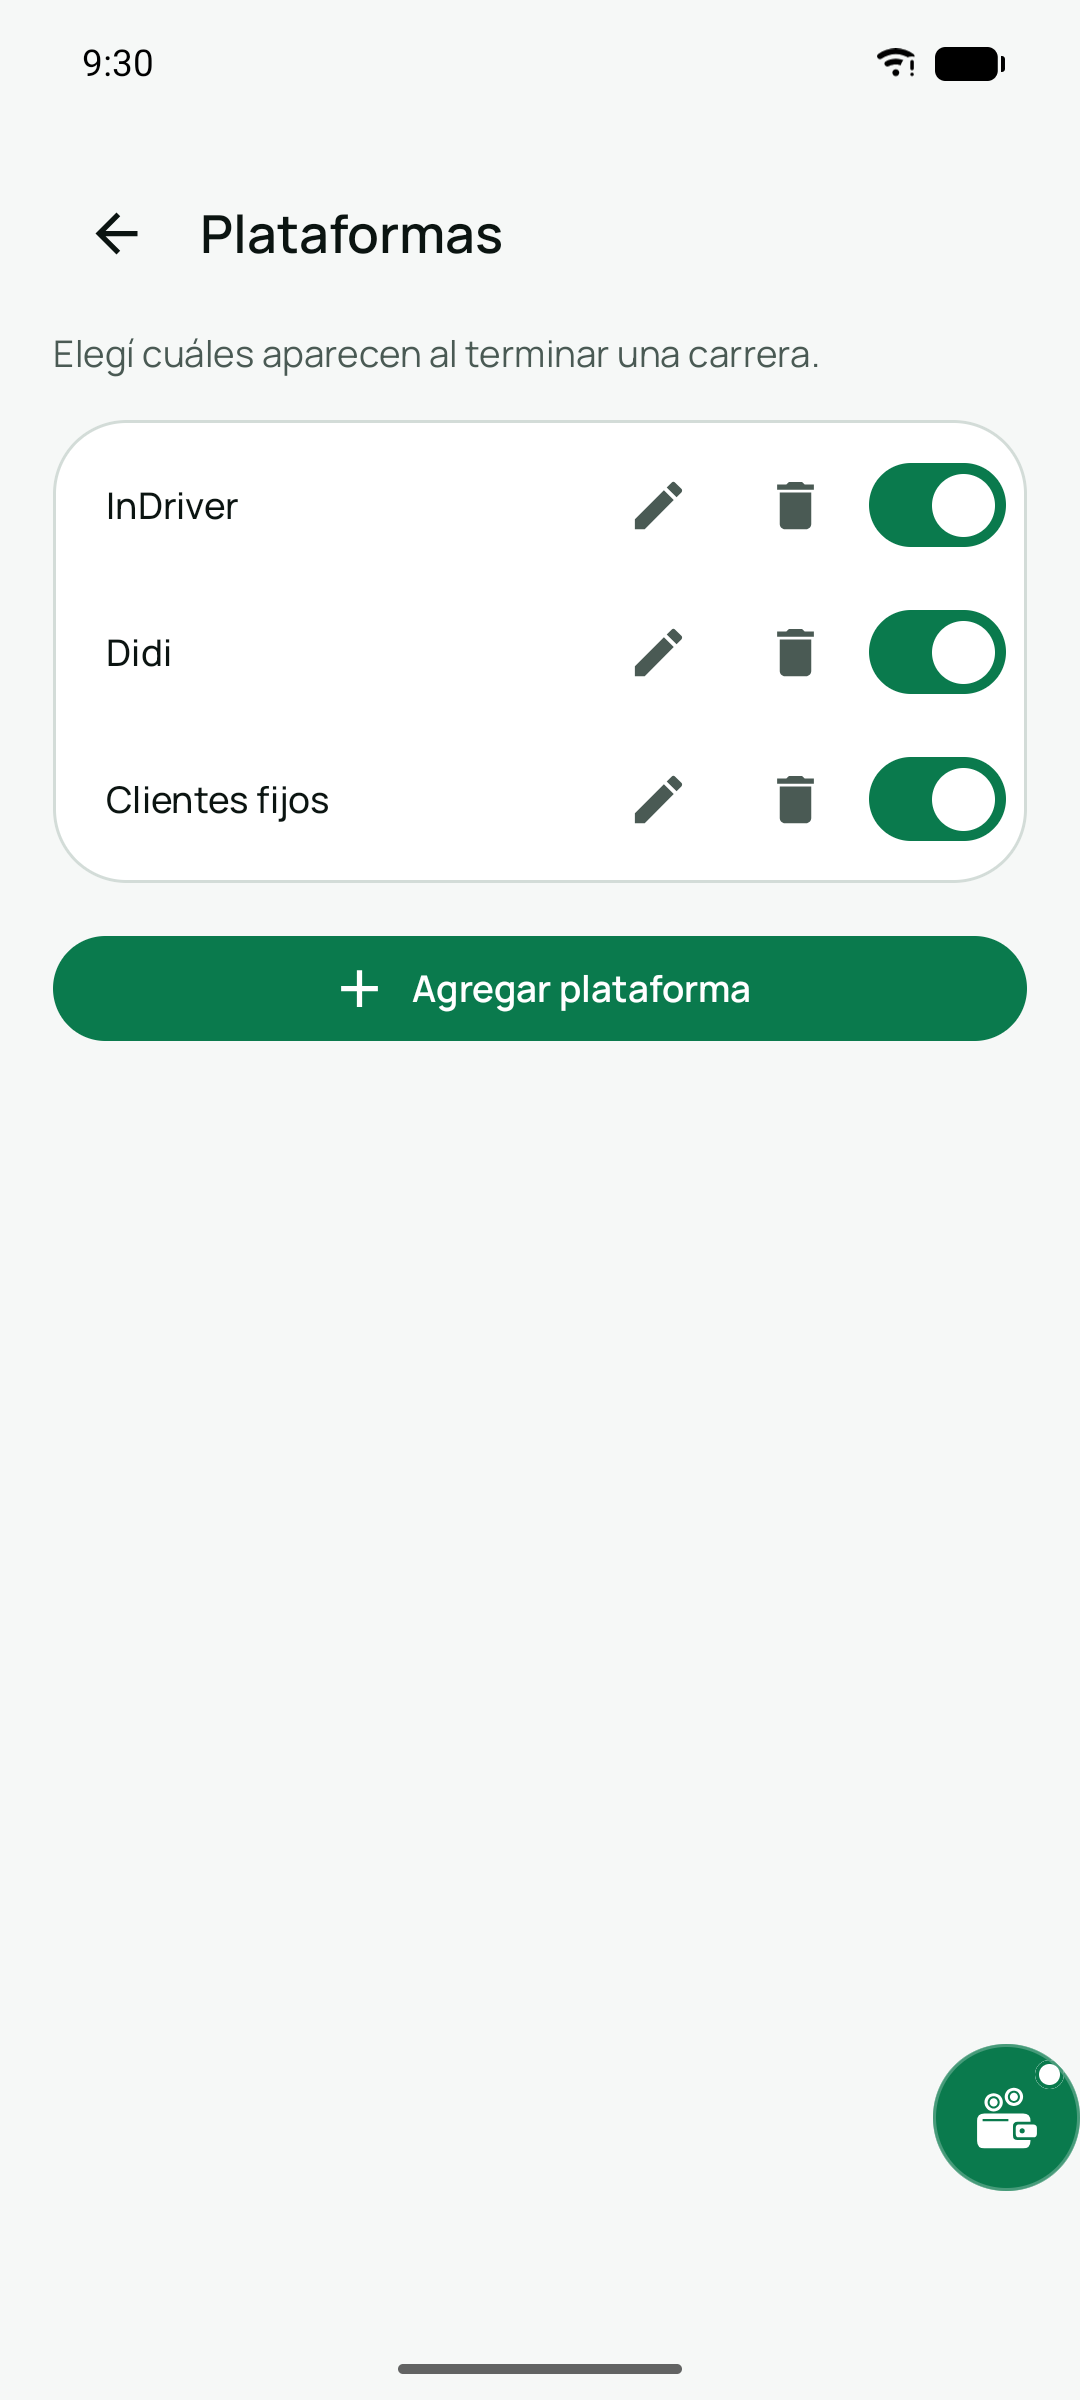
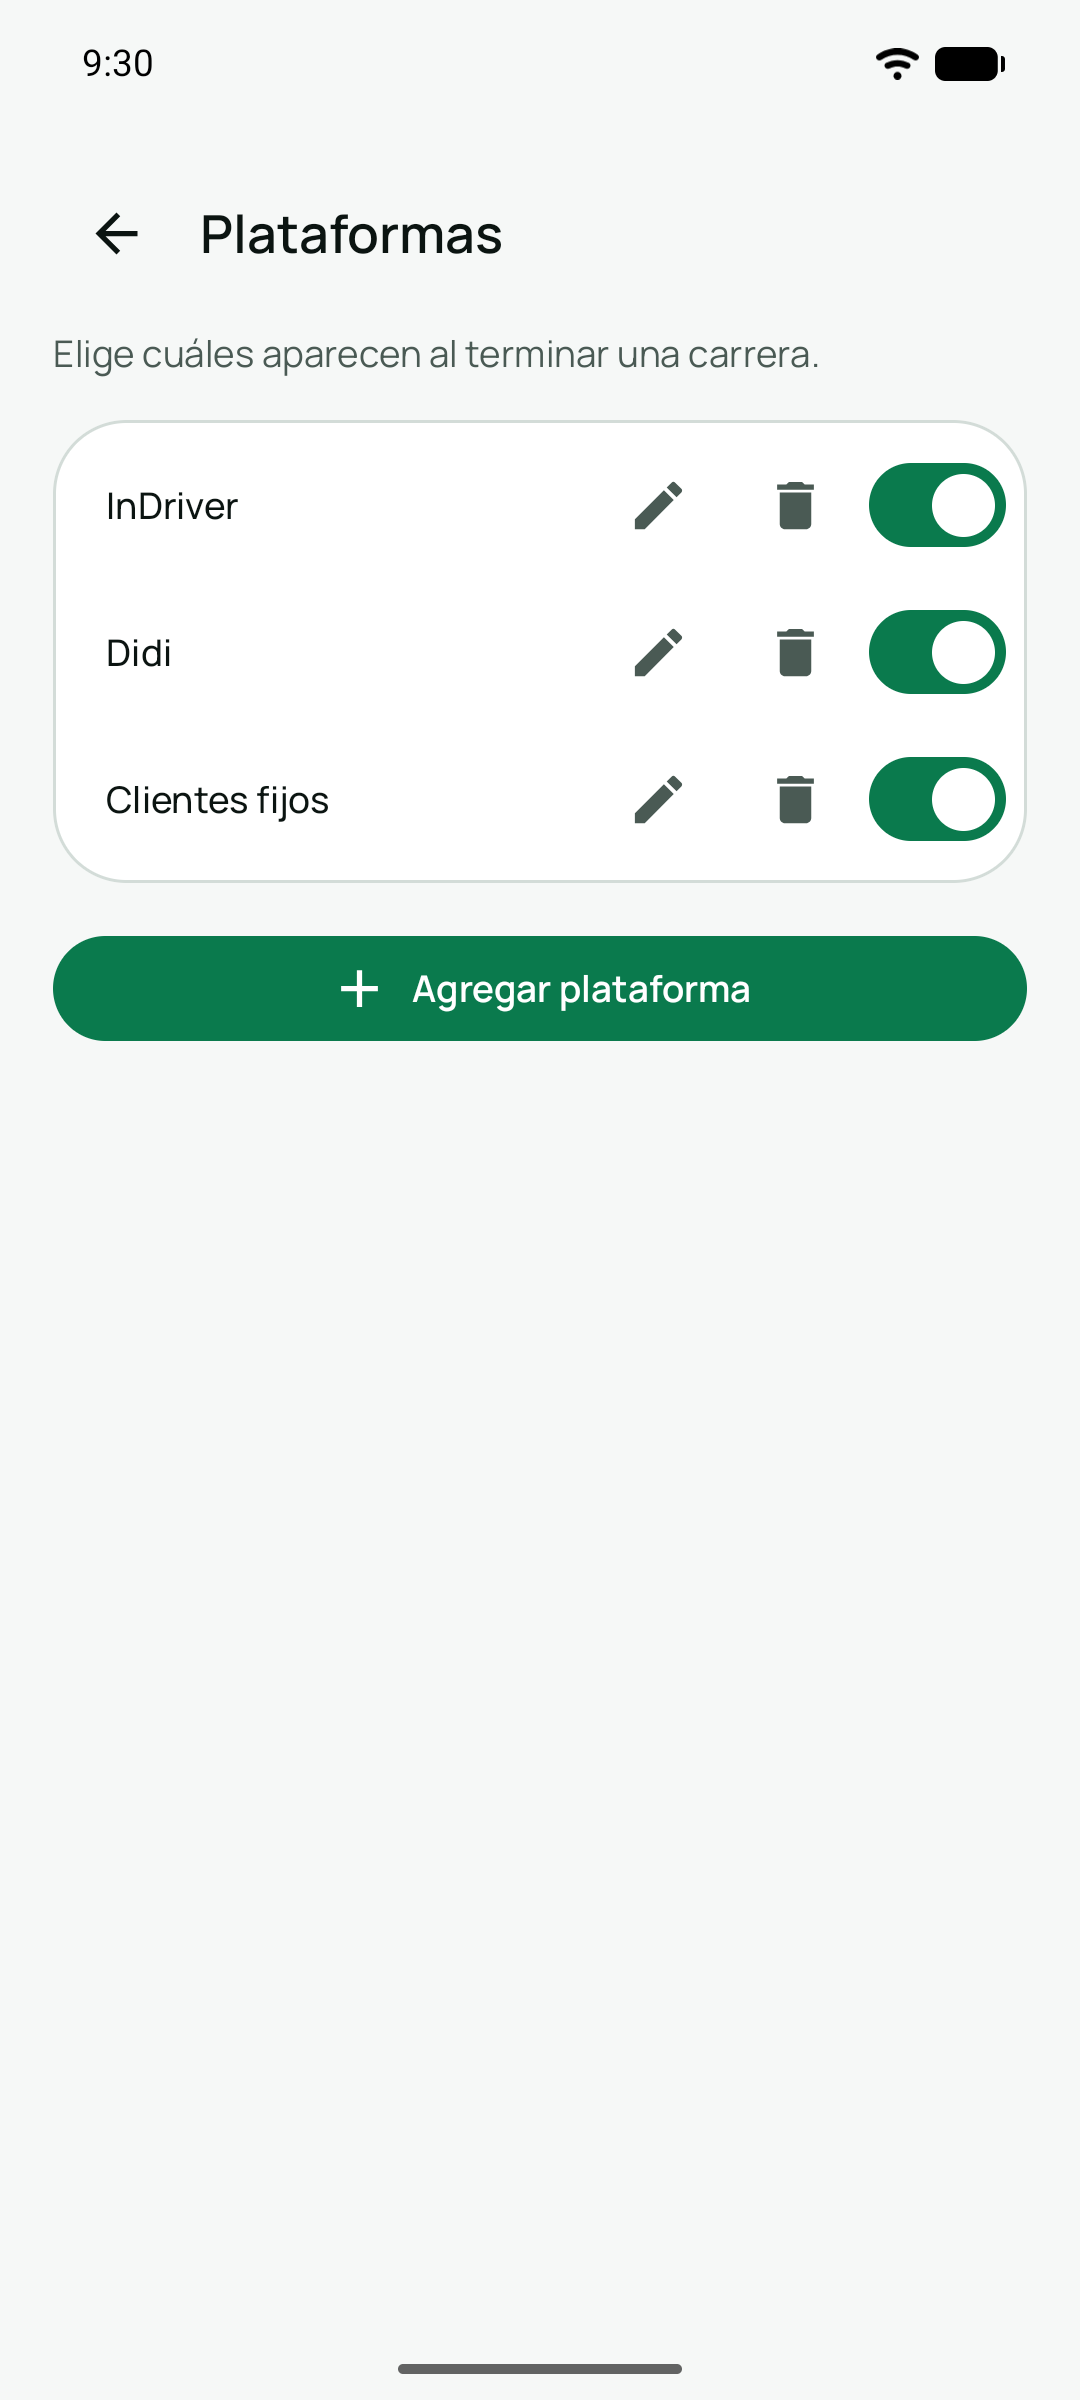
chore(release): 1.1.0

Changed region(s): [[0.8556, 0.8438, 1.0, 0.9375], [0.825, 0.0, 0.8556, 0.0312], [0.0917, 0.125, 0.1222, 0.1562]]

diff --git a/README.md b/README.md
@@ -7,6 +7,14 @@ separado en efectivo y transferencia.
 
 ![MiCuadre: total del turno, ganancias de la semana y del mes](docs/images/cover.png)
 
+## Novedades en 1.1.0
+
+- **Tus carreras ya no se pierden.** Si Android cierra la app en medio de una carrera, al volver
+  sigue ahí con su hora de inicio original. Un turno en pausa sigue en pausa.
+- **Español neutro.** Todos los textos de la app usan un español que se entiende en cualquier país.
+- **Accesibilidad.** TalkBack anuncia el nombre y el estado de cada deducción en *Ajustes ›
+  Deducciones*.
+
 ## Novedades en 1.0.0
 
 - **Deducciones personalizadas.** En *Ajustes › Deducciones* creas tus gastos (combustible, tarifa
@@ -173,5 +181,5 @@ versión se etiqueta en git (`v1.0.0`) y los cambios se listan en [CHANGELOG.md]
 
 ## Estado del proyecto
 
-MiCuadre está en desarrollo activo (versión actual **1.0.0**). Su autor la usa primero como
+MiCuadre está en desarrollo activo (versión actual **1.1.0**). Su autor la usa primero como
 herramienta diaria de conductor, con el objetivo de abrirla a cualquier conductor de plataformas.

diff --git a/odd/tasks/neutral-copy.md b/odd/tasks/neutral-copy.md
@@ -64,5 +64,14 @@ Out of scope: retaking the screenshots (done in the 1.1.0 release step, on the e
   tests passed immediately: refactor of already-correct behavior, no RED observed).
   `./gradlew testDebugUnitTest` 722 tests, 0 failures; `assembleDebug` OK.
 
+- 2026-10-23 Review (base bd7ab00): medium, granted, reliability APPROVED + acknowledged
+  (3 suggestions: a11y proved at resource level only, guard covers only `<string>` in the default
+  locale, CHANGELOG F1 entry comes from the merged F1 work).
+- 2026-10-23 Device check on emulator Pixel_6 (1.1.0 debug): the paused hint, Plataformas and
+  Deducciones show the neutral copy; no app crashes. Screenshots retaken with the status bar in demo
+  mode: `docs/images/platforms.png` (neutral hint) and `docs/images/shift-expenses.png` (no bubble
+  overlap; "Tarifa de la app" became "Peajes" because the emulator keyboard autocapitalized "la").
+- 2026-10-23 Released as 1.1.0 together with F1 (persist-active-ride).
+
 ## Next step
-Device check + release 1.1.0.
+None. Phase F3 (history in Settings) is next in the release plan.

diff --git a/CHANGELOG.md b/CHANGELOG.md
@@ -8,13 +8,16 @@ adheres to [Semantic Versioning](https://semver.org/spec/v2.0.0.html). The versi
 
 ## [Unreleased]
 
+## [1.1.0] - 2026-10-23
+
 ### Changed
 - All user-facing text now uses neutral Spanish (tú forms) instead of regional voseo, for example
   "Toca Iniciar...", "Intenta de nuevo", "Sigues en turno. Conéctate...". A unit test guards
   `strings.xml` against voseo forms.
 
 ### Fixed
-- A ride in progress is no longer lost when Android closes the app.
+- A ride in progress is no longer lost when Android closes the app: it is saved when it starts, the
+  service restores it with its original start time, and a paused shift stays paused (database v5).
 - Settings › Deducciones: the show/hide switch of a deduction is announced by TalkBack with the
   deduction name and its state ("Mostrar Combustible al terminar el turno", Visible / Oculta).
 - Expense and negative amounts share one formatter, so they always use the "−" (U+2212) sign.
